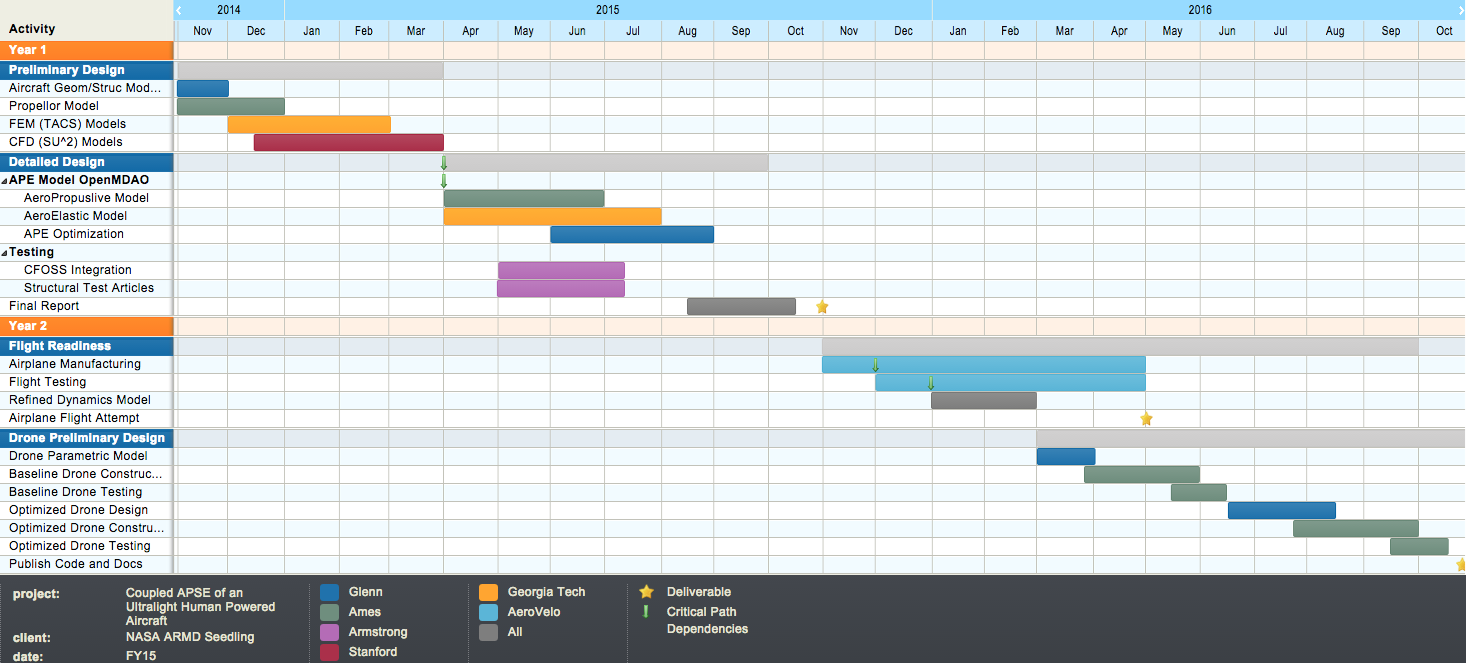
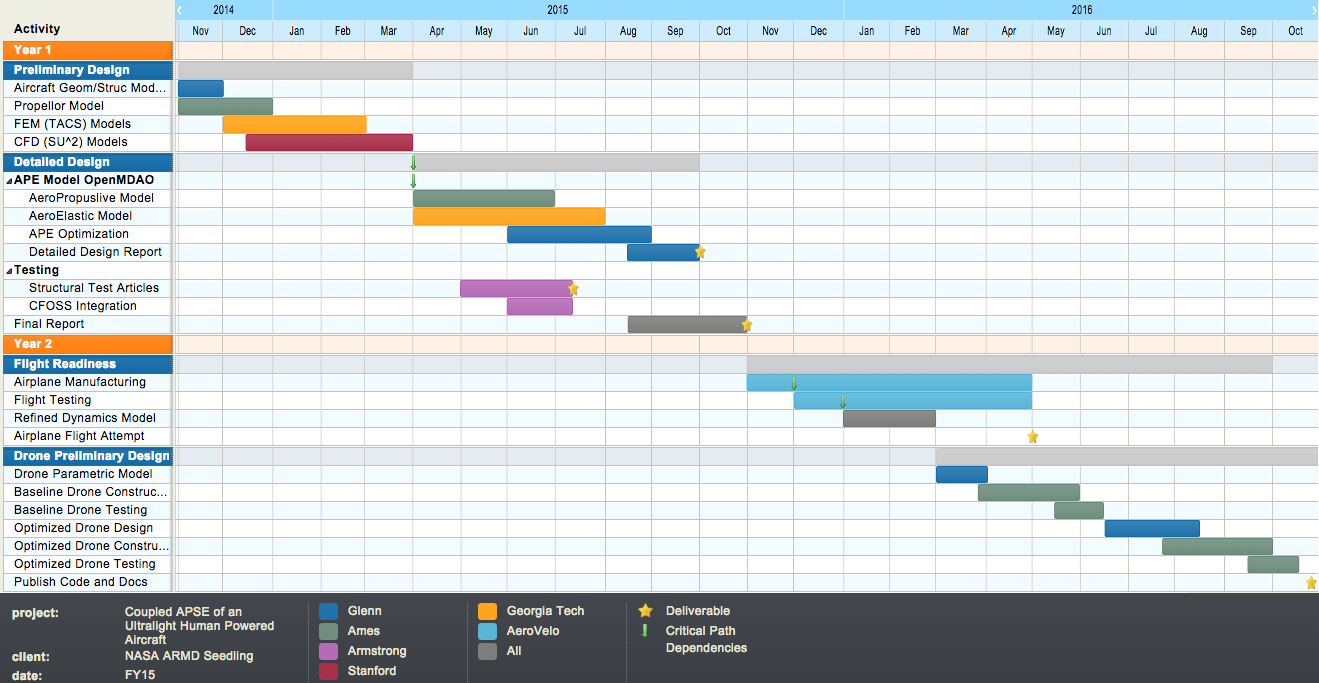
new gantt, merged deliverables into milestones, added phase II drone description

Changed region(s): [[0.0, 0.0, 1.0, 1.0], [0.0, 0.9351, 0.0311, 1.0]]

diff --git a/proposal.tex b/proposal.tex
@@ -155,8 +155,19 @@
     as additional data on flight handling characteristics and overall performance. All the data collected, 
     models generated, and the final detailed design are intended to be released publicly under an open-source license
     upon completion of the challenge. Second, additional research will be conducted to extend the design tools to 
-    for the design of a HALE atmospheric satellite aircraft. This additional design effort will leverage all of the experience 
-    gained from working on the human powered vehicle and move the work further toward an actual commercial application.   In particular, the ability to utilize the tools and integration methods developed and to include the stability and control requirements for aircraft whose flight altitudes can vary widely (from as low as 10-12 Km to as high as 28 Km in altitude) will be required to tackle such designs.  Moreover, these aircraft are designed, from the ground up, to be highly (if not completely) autonomous.  The proposed Phase II effort will incorporate these concepts of autonomy in our multi-disciplinary design environment, providing a valuable test case and database for future efforts in autonomous aircraft design within NASA.
+    for the design of a HALE atmospheric satellite UAV. This additional design effort will leverage all of the experience 
+    gained from working on the human powered vehicle and move the work further toward more direct commercial applications.
+    In particular, the ability to utilize the tools and integration methods developed and to include the stability and
+    control requirements for aircraft whose flight altitudes can vary widely (from as low as 10-12 Km to as high as 28 Km
+    in altitude) will be required to tackle such designs.  Moreover, these aircraft are designed, from the ground up, to
+    be highly (if not completely) autonomous.  The proposed Phase II effort will incorporate these concepts of autonomy in
+    our multi-disciplinary design environment, providing a valuable test case and database for future efforts in
+    autonomous aircraft design within NASA. To better quantify the benefits of a tightly coupled optimization,
+    two drones will be tested and flown over the course of the second year. The first UAV will be derived from
+    pre-existing prototypes from NASA Ames, and serve as a baseline for performance benchmarks.
+    Starting from this baseline, the second UAV will be optimized using the developed toolsets.
+    Performance data from the second aircraft will then be used to validate any increases in performance compared to
+    the calculated increases in performance based on the simulation results.
 
   \section{Objectives and Technical Approach}
 
@@ -791,10 +802,10 @@ optimization.
             CFD Model                   & 3/30/2015 & Unstructured Volume Mesh of the Wing \\
             Preliminary Design           & 3/30/2015 & Conceptual design report for Marathon Aircraft  \\
             Aero-Propulsive Analysis    & 6/30/2015 & OpenMDAO model with propeller coupled to CFD \\
-            Structural Testing          & 7/15/2015 & Complete structural test report \\
+            Structural Testing          & 7/15/2015 & Complete structural testing and CFOSS integration \\
             Aero-Elastic Analysis    & 7/30/2015 & OpenMDAO model with aero coupled to structures \\
             \bigcell{l}{Aero-Propulsive-Elastic \\ Optimization} & 8/30/2015 & Completed optimization of vehicle \\
-            Detailed Design             & 9/30/2015 & Detailed design report for Marathon Airplane \\
+            Detailed Design Report       & 9/30/2015 & Detailed design and dynamic model for Marathon Airplane \\
             \textit{ \textbf{Year 2}} & \\
             Refined APE Model           & 2/30/2016 & Refined and adapted model based on construction \\
             Drone Parametric Model      & 3/30/2016 & Preliminary design of a baseline ultra-light drone configuration \\
@@ -805,25 +816,9 @@ optimization.
             Optimized Drone Construction & 9/30/2016 & Construction of the optimized ultra-light drone \\
             Optimized Drone Testing     & 10/15/2016 & \bigcell{l}{Compare optimized drone performance against \\
                                            baseline, further model validation} \\
+            Final report                & 11/30/2016 & All Code/Design/Docs Published \\
         \end{tabular}\end{table}
 
-    \subsection{Deliverables}
-        \subsubsection{Year 1}
-            \begin{itemize}
-                \item Structural Test Articles (AeroVelo)
-                \item Aerodynamic Models (Stanford)
-                \item Structural Models (GaTech)
-                \item Integrated System Model in OpenMDAO (NASA Glenn/Ames)
-                \item Final Report (All)
-            \end{itemize}
-        \subsubsection{Year 2}
-            \begin{itemize}
-                \item Structural Dynamics Models (Stanford/GaTech)
-                \item CFOSS Integrated Spar (NASA Armstrong)
-                \item Flight Test Plan (AeroVelo)
-                \item Drone Comparison Report (NASA Ames)
-                \item Published Code/Design/Docs (All)
-            \end{itemize}
 
 
   \section{Cost Sharing}
